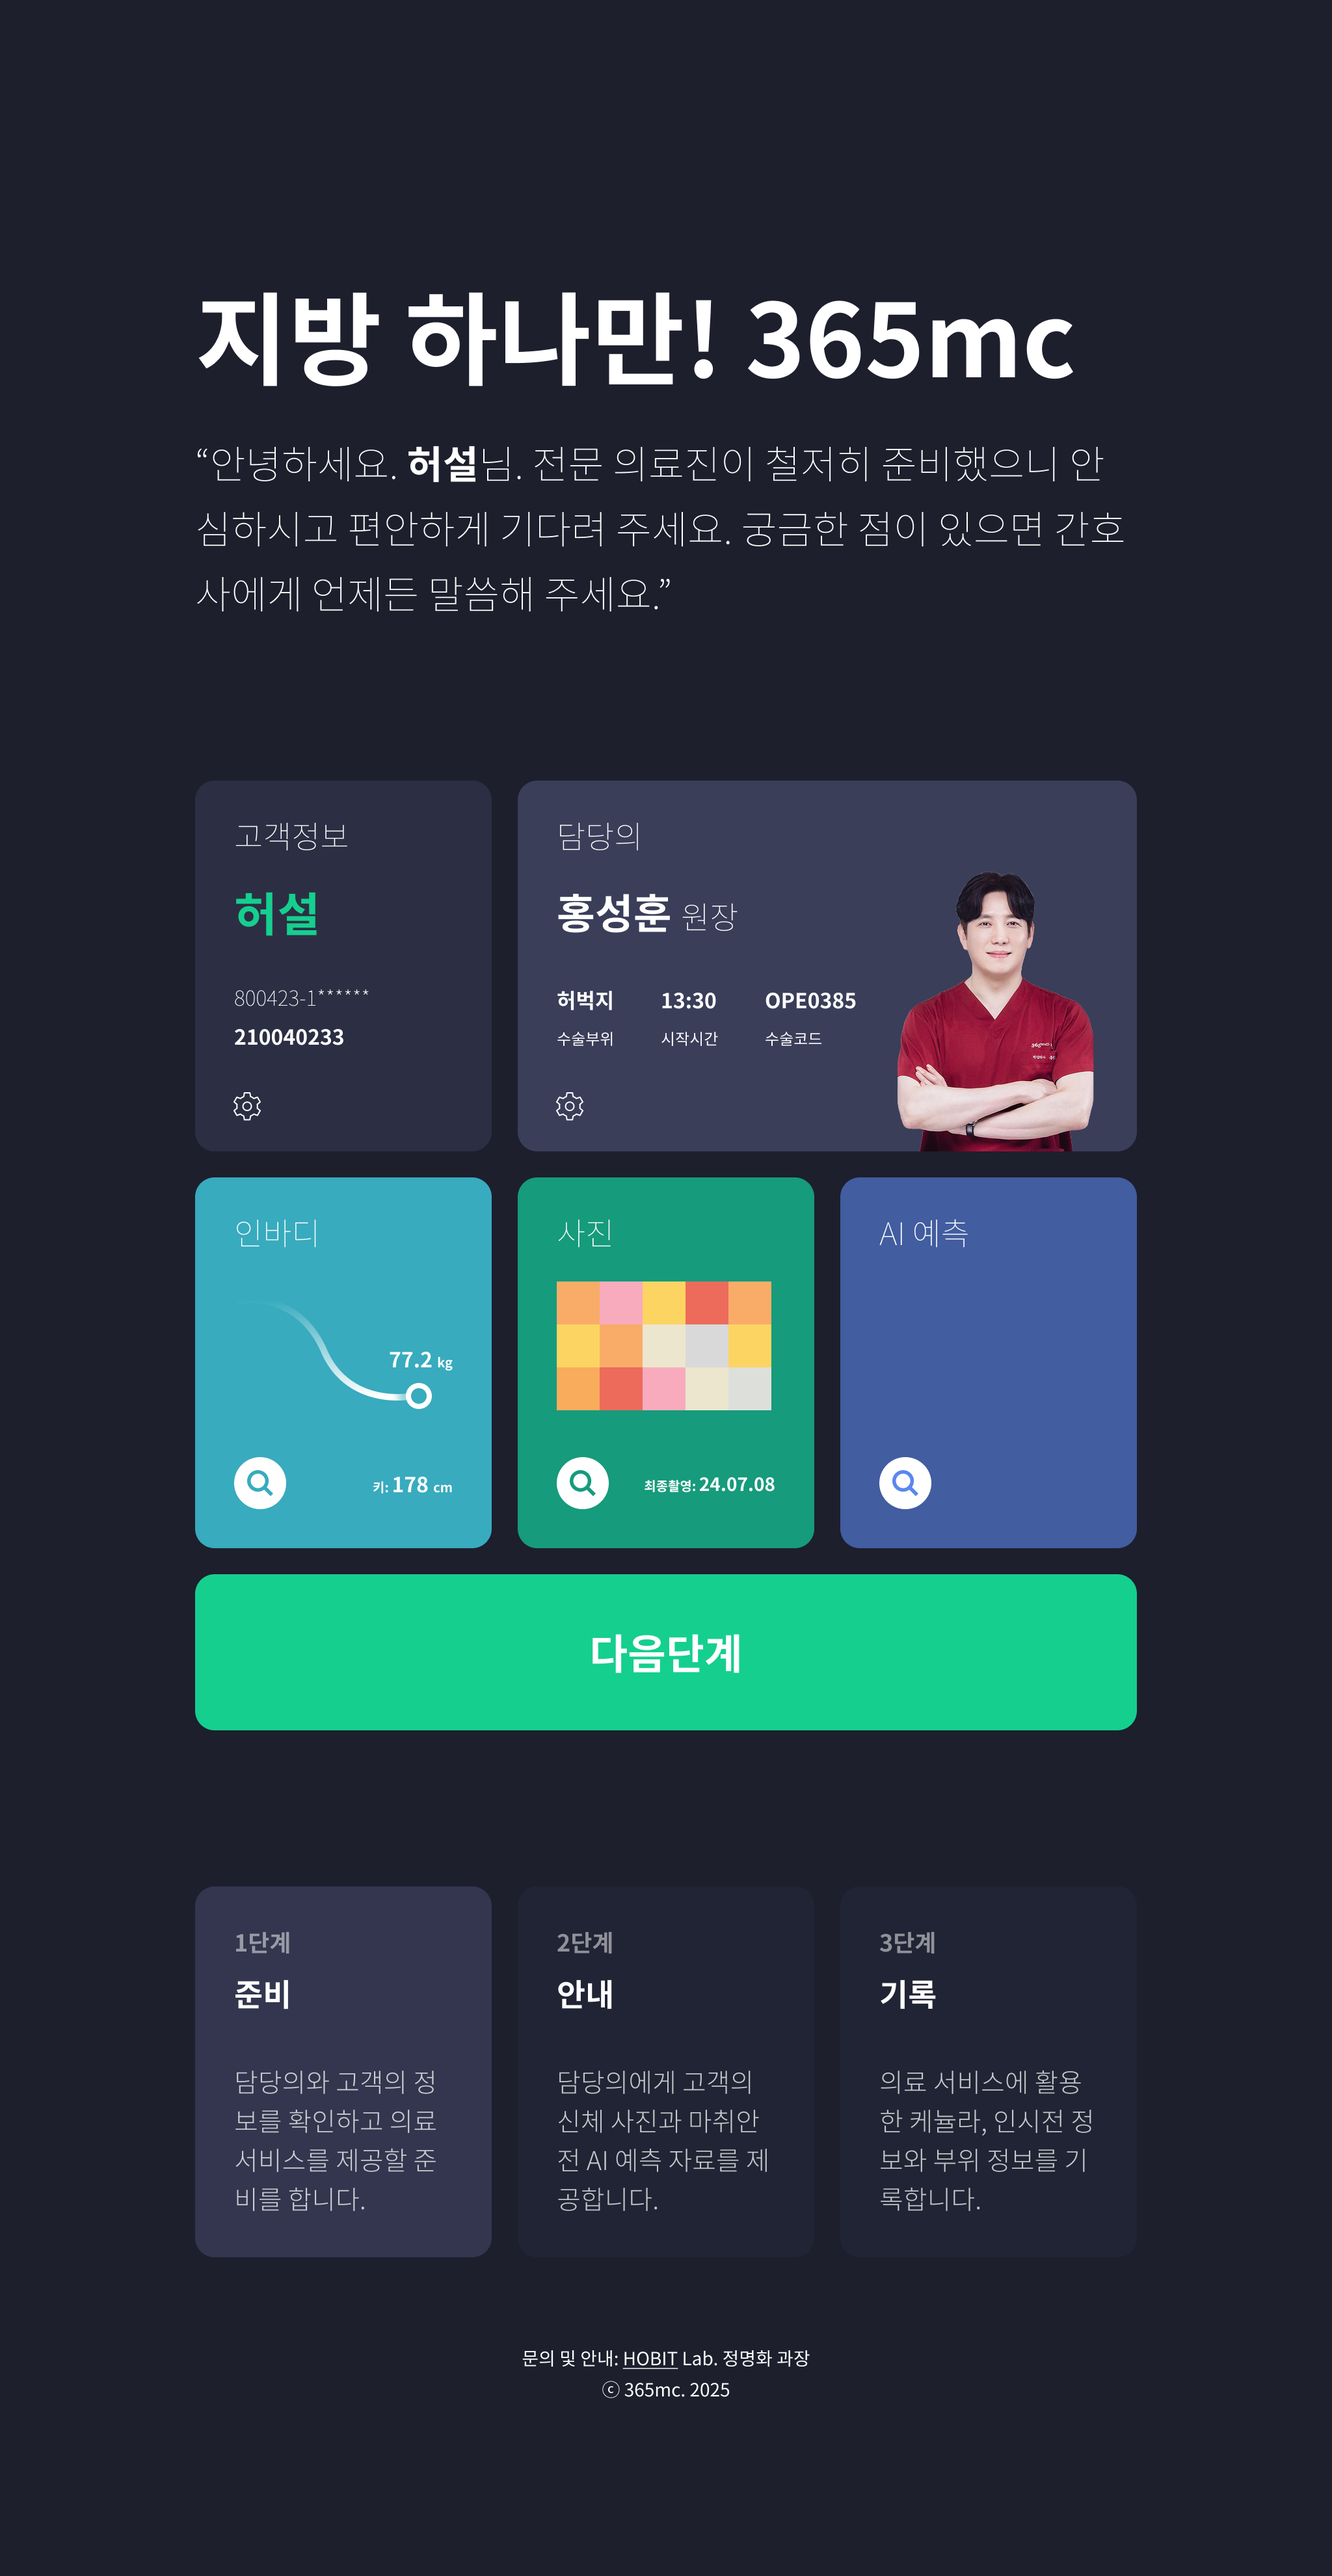
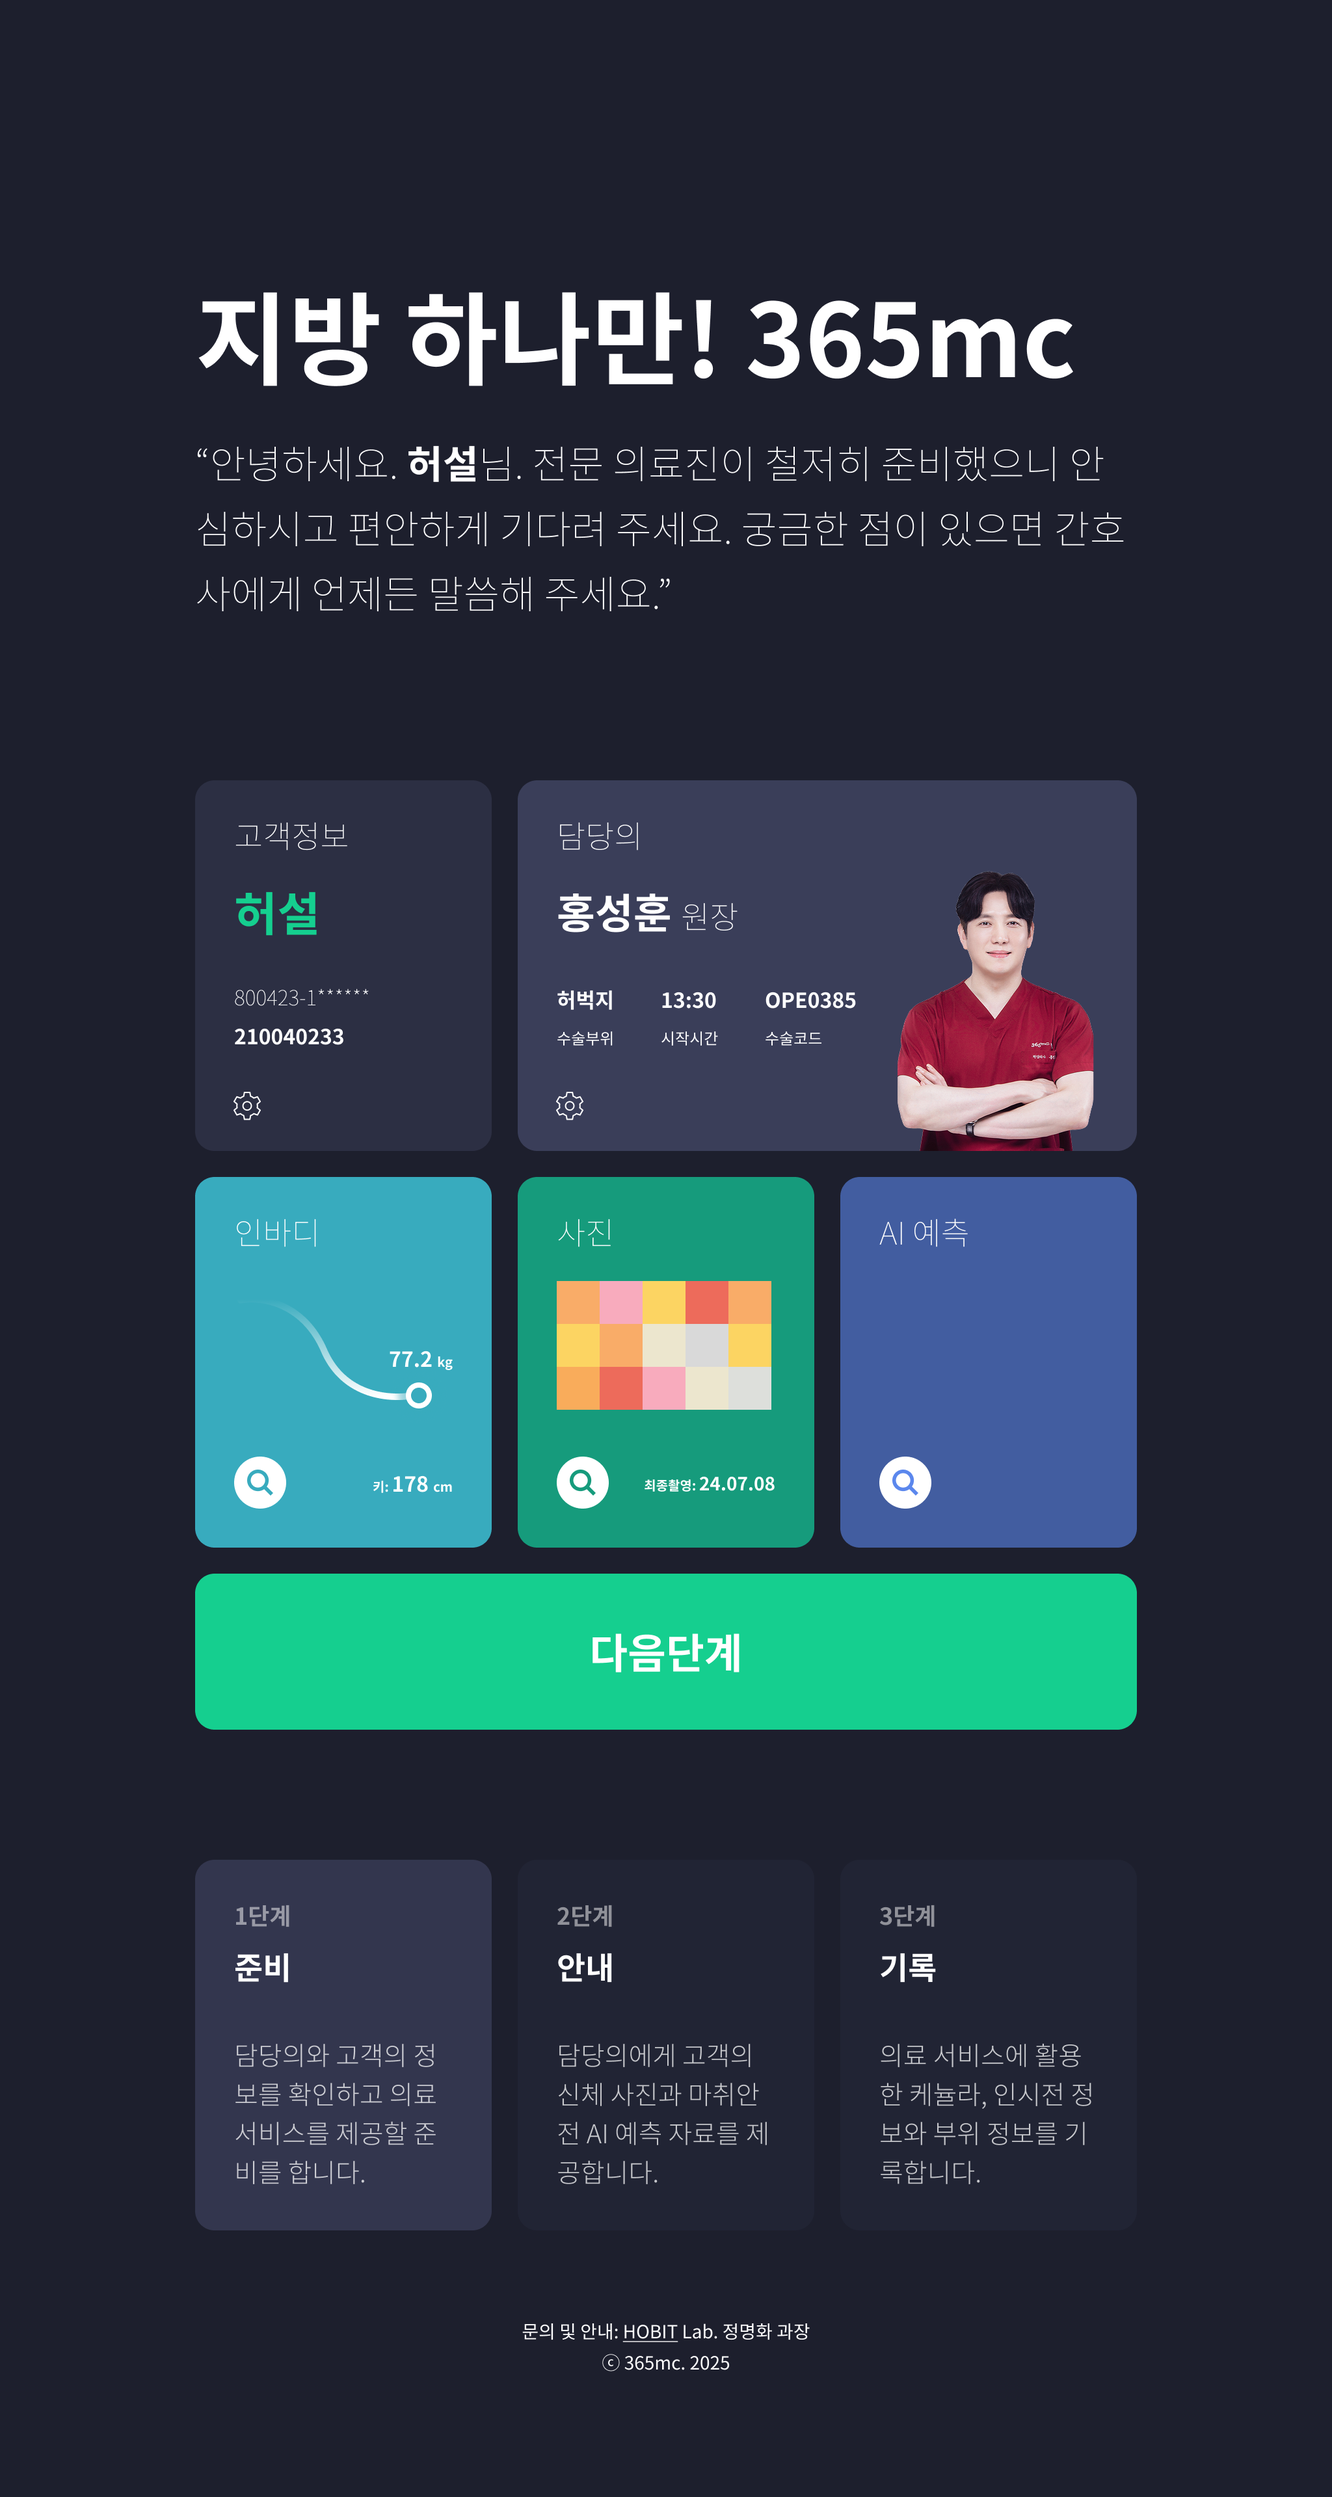
..

diff --git a/src/app/page.tsx b/src/app/page.tsx
@@ -2,7 +2,7 @@ export default function Home() {
   return (
     <>
       <main>
-        <div style={{background:'url(./images/image20240219.png) no-repeat', backgroundPosition:'center', backgroundSize:'cover', height:'1980px', width: '1024px'}}></div>
+        <div style={{background:'url(./images/image20240219.png) no-repeat', backgroundPosition:'center', backgroundSize:'cover', height:'1920px', width: '1024px'}}></div>
       </main>
       <footer>
         
